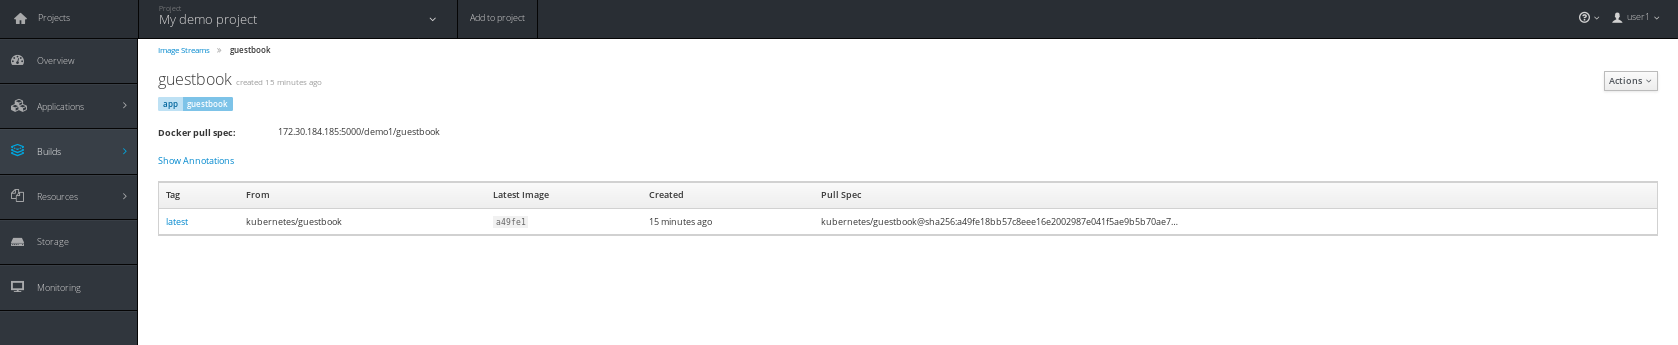
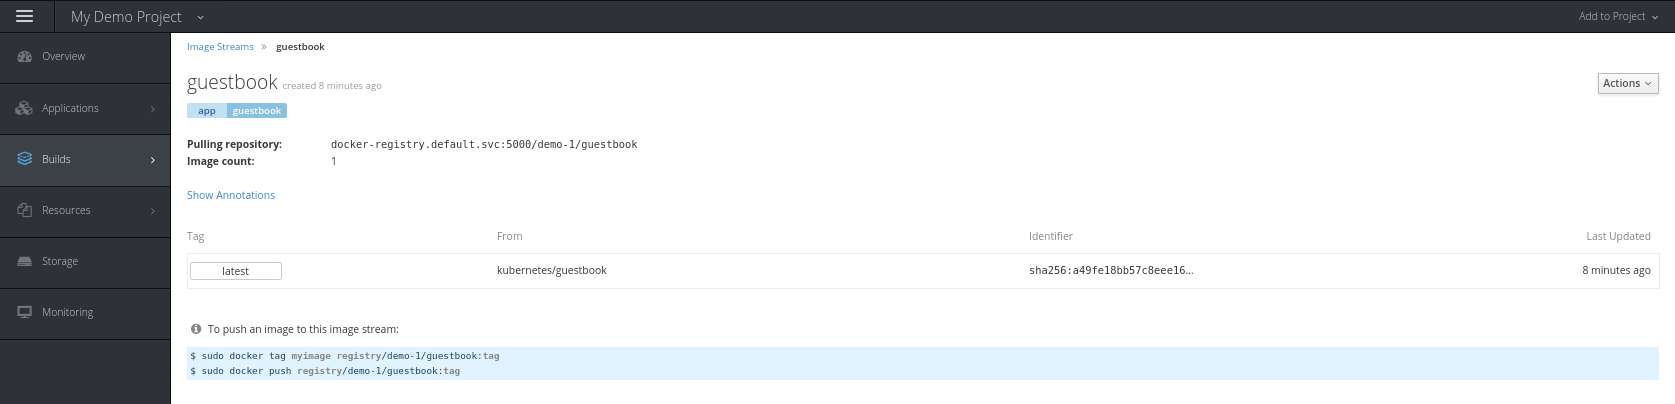
Editing through Lab 4 for v3.7 new UI

diff --git a/content/workshops/openshift_v3_7_101/lab4-devmanage.md b/content/workshops/openshift_v3_7_101/lab4-devmanage.md
@@ -19,7 +19,7 @@ Only if you don't already have it running, add it with the following steps.
 > <i class="fa fa-terminal"></i> Goto the terminal and type these commands:
 
 ```
-$ oc new-app --name=dc-metro-map https://github.com/dudash/openshift-workshops.git --context-dir=dc-metro-map
+$ oc new-app --name=dc-metro-map https://github.com/DLT-Solutions-JBoss/openshift-workshops.git --context-dir=dc-metro-map
 $ oc expose service dc-metro-map
 ```
 
@@ -77,7 +77,7 @@ Notice the information about the configuration of how this app gets built.  In p
 $ oc describe build/dc-metro-map-1
 ```
 
-This shows us even more about the deployed container's build and source code including exact commit GUID for this build.  We can also can see the commit's author, and the commit message.  You can inspect the code by opening a web browser and pointing it to: https://github.com/dudash/openshift-workshops/commit/[COMMIT_GUID]
+This shows us even more about the deployed container's build and source code including exact commit GUID for this build.  We can also can see the commit's author, and the commit message.  You can inspect the code by opening a web browser and pointing it to: https://github.com/DLT-Solutions-JBoss/openshift-workshops/commit/[COMMIT_GUID]
 
 {{% /panel %}}
 
@@ -101,8 +101,10 @@ Here are the details of the image stream for this deployment.<br/>
 <img src="../images/ocp-lab-devman-isDetails.png" width="900"><br/>
 
 <blockquote>
-<i class="fa fa-info-circle"></i> If you hover over the shortened image GUID or edit the image stream you can see the full GUID.
+<i class="fa fa-info-circle"></i> If select the "latest" button, you will see more detailed infomration about the image now as it resides with your project.  
 </blockquote>
+
+<img src="../images/ocp-lab-devman-isDetails_latest.png" width="900"><br/>
 
 <blockquote>
 Click "Builds" and then Builds to get back to the build summary
@@ -117,7 +119,7 @@ Because we built this app using S2I, we get to see the details about the build -
 <blockquote>
 Click "Overview" and then the deployment detail link to get back to the deployment summary again
 </blockquote>
-<img src="../images/ocp-lab-devman-deployment-shortcut.png" width="600">
+<img src="../images/ocp-lab-devman-deployment-shortcut_2.png" width="600">
 <br/>
 
 Notice in the Source line you can see the comment from the last commit when the build was started.  And you can see the that commit's author.  You can click that commit GUID to be taken to the exact version of the source code that is in this deployed application.
@@ -194,7 +196,7 @@ Let's have a little fun.  The app has some easter eggs that get triggered when c
 <i class="fa fa-terminal"></i> Goto the terminal and type the following:
 </blockquote>
 ```
-$ oc env dc/dc-metro-map -e BEERME=true
+$ oc env dc/dc-metro-map -e RAINBOW=true
 ```
 
 ```
@@ -232,19 +234,22 @@ Click the Environment tab next to the Details tab .
 This opens up a tab with the environment variables for this deployment config.
 
 <blockquote>
-Add an environment variable with the name BEERME and a value of 'true'
+Add an environment variable with the name RAINBOW and a value of 'true'
 </blockquote>
 <img src="../images/ocp-lab-devman-deployconfigdetails-populated.png" width="900"><br/>
 
 <blockquote>
 Click "Save".  And go back to the summary view by clicking "Overview" on the left menu bar
 </blockquote>
-If you are quick enough you will see a new pod spin up and an the old pod spin down.  This is due to the deployment config strategy being set to "Rolling" and having a "ConfigChange" trigger, OpenShift auto deployed a new pod as soon as you updated with the env variable.
+
+If you are quick enough you will see a new pod spin up and an the old pod spin down.  This is due to the deployment config strategy being set to "Rolling" and having a "ConfigChange" trigger, OpenShift auto deployed a new pod as soon as you updated with the env variable.  That page will look something like this - 
+
+<img src="../images/ocp-lab-devman-deployconfigdetails-updating.png" width="900"><br/>
 
 {{% /panel %}}
 {{< /panel_group >}}
 
-With the new environment variables set the app should look like this in your web browser (with beers instead of busses):
+With the new environment variables set the app should look like this in your web browser (with colors of the bus stops all in rainbow color instead of black):
 
 <img src="../images/ocp-lab-devman-beerme.png" width="900"><br/>
 
@@ -275,10 +280,10 @@ $ oc exec -it [POD NAME] /bin/bash
 You are now interactively attached to the container in your pod.  Let's look for the environment variables we set:
 
 ```
-$ env | grep BEER
+$ env | grep RAINBOW
 ```
 
-That should return the **BEERME=true** matching the value that we set in the deployment config.
+That should return the **RAINBOW=true** matching the value that we set in the deployment config.
 
 ```
 $ exit
@@ -304,9 +309,9 @@ Click the "Terminal" button
 Let's look for the environment variables we set:
 
 <blockquote>
-Inside the web page's terminal type: 'env | grep BEER'
+Inside the web page's terminal type: 'env | grep RAINBOW'
 </blockquote>
-That should return the **BEERME=true** matching the value that we set in the deployment config.
+That should return the **RAINBOW=true** matching the value that we set in the deployment config.
 
 {{% /panel %}}
 {{< /panel_group >}}

diff --git a/content/workshops/openshift_v3_7_101/lab3-s2i.md b/content/workshops/openshift_v3_7_101/lab3-s2i.md
@@ -19,7 +19,7 @@ We can do this either via the command line or the web console.  You decide which
 </blockquote>
 
 ```
-$ oc new-app --name=dc-metro-map https://github.com/dudash/openshift-workshops.git --context-dir=dc-metro-map
+$ oc new-app --name=dc-metro-map https://github.com/DLT-Solutions-JBoss/openshift-workshops.git --context-dir=dc-metro-map
 $ oc expose service dc-metro-map
 ```
 
@@ -32,23 +32,41 @@ When using the CLI, OpenShift automatically detects the source code type and sel
 {{% panel "Web Console Steps" %}}
 
 <blockquote>
-Click "Add to Project"
+Click "Browse Catalog"
 </blockquote>
 <img src="../images/ocp-addToProjectButton.png" width="200"><br/>
 
 <blockquote>
-Click "Browse Catalog" and filter for nodejs. Select Node.js version 0.10 from the Version drop down menu and then click "Select"
+Under the "Browse Catalog" section, select Languages.
 </blockquote>
 <img src="../images/ocp-lab-s2i-filternode.png" width="900"><br/>
 
 <blockquote>
-Fill out the boxes to look as follows:
+Select the JavaScript menu option.
 </blockquote>
+
+<img src="../images/ocp-lab-s2i-javascript_filter.png" width="900"><br/>
+
+<blockquote>
+Select the Node.js option.
+</blockquote>
+
+<img src="../images/ocp-lab-s2i-nodejs_information.png" width="900"><br/>
+
+<blockquote>
+This dialog box informs you of the version and the OS being used for your Node.js application.  Click "Next".
+</blockquote>
+
+<img src="../images/ocp-lab-s2i-nodejs_configuration.png" width="900"><br/>
+
+<blockquote>
+Select Version "6 --latest" from the Version dropdown list.  Click the "advanced options" link and you will be taken to the Node.js configuration web page within the OCP web Console.
+</blockquote>
+
 <img src="../images/ocp-lab-s2i-nodejs.png" width="900"><br/>
 <p>
-Notes: You will need to click to expand the "advanced options"<br/>
-The github repository URL is: https://github.com/dudash/openshift-workshops.git<br/>
-The github context-dir is: dc-metro-map<br/>
+The github repository URL is: https://github.com/DLT-Solutions-JBoss/openshift-workshops.git<br/>
+The github context-dir is: /dc-metro-map<br/>
 </p>
 
 <blockquote>

diff --git a/content/workshops/openshift_v3_7_101/lab5-rollbacks.md b/content/workshops/openshift_v3_7_101/lab5-rollbacks.md
@@ -13,7 +13,7 @@ Once you have an app deployed in OpenShift you can take advantage of some contin
 ## A bit of configuration
 We are going to do some integration and coding with an external git repository.  For this lab we are going to use github, if you don't already have an account, [you can create one here][3].
 
-OK, let's fork the dc-metro-map app from **my** account into **your** github account.  Goto [https://github.com/dudash/openshift-workshops/][4] and look to the top right for the "Fork" button.
+OK, let's fork the dc-metro-map app from **my** account into **your** github account.  Goto [https://github.com/DLT-Solutions-JBoss/openshift-workshops/][4] and look to the top right for the "Fork" button.
 
 <img src="../images/ocp-lab-rollbacks-fork.png" width="500"><br/>
 
@@ -217,5 +217,5 @@ In this lab we saw how you can configure a source code repository to trigger bui
 [1]: https://docs.openshift.com/enterprise/3.1/dev_guide/builds.html#build-triggers
 [2]: https://docs.openshift.com/enterprise/3.1/dev_guide/deployments.html#triggers
 [3]: https://github.com/join?source=header-home
-[4]: https://github.com/dudash/openshift-workshops/
+[4]: https://github.com/DLT-Solutions-JBoss/openshift-workshops/
 [5]: https://docs.openshift.com/enterprise/latest/rest_api/openshift_v1.html#create-a-deploymentconfigrollback-2

diff --git a/content/workshops/openshift_v3_7_101/lab9-bluegreen.md b/content/workshops/openshift_v3_7_101/lab9-bluegreen.md
@@ -17,7 +17,7 @@ $ oc delete all -l app=nodejs-helloworld-sample
 ```
 
 ## Lets deploy an application
-To demonstrate Blue/Green deployments, we'll use a simple application that renders a colored box as an example. Using your GitHub account, please fork the following https://github.com/dudash/openshift-workshops [project][1].
+To demonstrate Blue/Green deployments, we'll use a simple application that renders a colored box as an example. Using your GitHub account, please fork the following https://github.com/DLT-Solutions-JBoss/openshift-workshops [project][1].
 
 You should be comfortable deploying an app at this point, but here are the steps anyway:
 
@@ -97,5 +97,5 @@ Pretty easy, right?
 
 If you want to read more about Blue/Green check out [this post][2] with a longer description as well as links to additional resources.
 
-[1]: https://github.com/dudash/openshift-workshops
+[1]: https://github.com/DLT-Solutions-JBoss/openshift-workshops
 [2]: http://martinfowler.com/bliki/BlueGreenDeployment.html

diff --git a/content/workshops/openshift_v3_7_101/lab2-byodocker.md b/content/workshops/openshift_v3_7_101/lab2-byodocker.md
@@ -41,7 +41,7 @@ The output should show something *similar* to below:
 {{% panel "Web Console Steps" %}}
 
 <blockquote>
-Click "Add to Project"
+Click "Browse Catalog"
 </blockquote>
 
 <img src="../images/ocp-addToProjectButton.png" width="200"><br/>
@@ -68,8 +68,15 @@ Observe default values that are populated in the search results
 
 
 <blockquote>
-Scroll to the bottom and click "Create"
+Scroll through the additional settings and review the additional attributes you can set on your image. Leave 'guestbook' in the Name field and leave the Environment Variables and Labels as-is. When ready, click "Deploy"
 </blockquote>
+
+<img src="../images/ocp-guestbook-create-results.png" width="600"><br/>
+
+<blockquote>
+Click Close, the Deploy Image dialog box will close.  Now click your project description from the Projects section of the page. 
+</blockquote>
+
 
 {{% /panel %}}
 {{< /panel_group >}}

diff --git a/content/workshops/openshift_v3_7_101/lab1-welcome.md b/content/workshops/openshift_v3_7_101/lab1-welcome.md
@@ -66,7 +66,7 @@ Don't worry, it's supposed to look empty right now because you currently don't h
 > <i class="fa fa-terminal"></i> Open a terminal and login using the same URI with following command:
 
 ```
-$ oc login https://master.ocp.test-demo-dlt.com:8443
+$ oc login https://workshop-dlt.com:8443
 ```
 > You'll be prompted for a secure connection, respond 'y', then enter in your student credentials (Username: user{YOUR#}, Password: {get password from instructor}).
 
